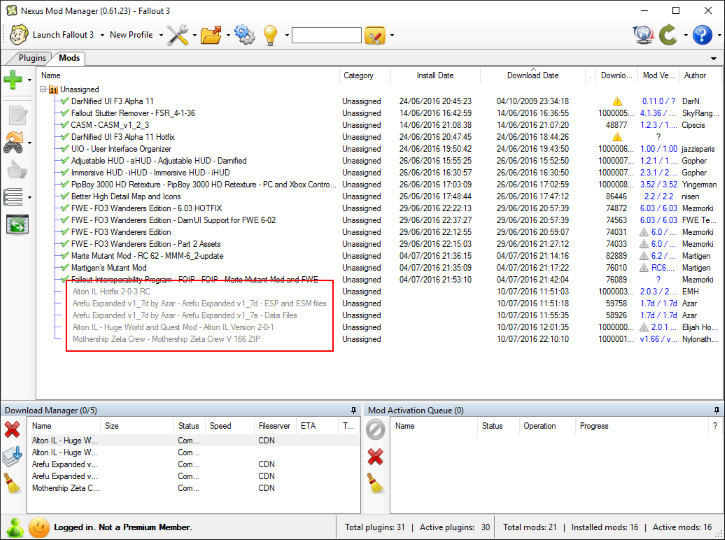
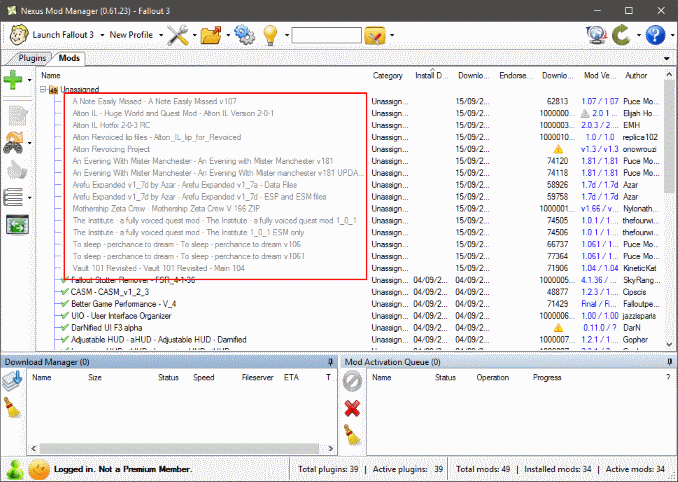
The chapter about new quests have plumped up a lot. From just 3 mods/quest, the count has increased to 8. Aside from that, there's nothing really remarkable about this update (and I am a little absentminded right now).
I have not tested the mods, so I hope the game won't crash when going on any of these quests.

diff --git a/Modding never changes.md b/Modding never changes.md
@@ -1161,27 +1161,65 @@ We are going to install [_Weapon Mod Kits_](http://www.nexusmods.com/fallout3/mo
 
 ### <a id="expandingYourWorld"></a>4.4. Expanding your world
 
-This section is about adding new content to the game, and it's the last block before changing the way the game looks. We are going to add a few new places, a new playable set (armor, range finder, trap detector and nightvision gear), and pulling out a feature the game actually has, but does not show by default.
+This section is about adding new content to the game, and it's the last block before changing the way the game looks. We are going to add a few new places and quests, a new playable set (armor, range finder, trap detector and nightvision gear), and pulling out a feature the game actually has, but does not show by default.
 
 
 #### <a id="hicSuntDracones"></a>4.4.1. _Hic sunt dracones_
 
 It's not that _Fallout 3 Game of the Year Edition_ lacks places to visit. On the contrary, you will be ruining your life trying to unfold the secrets of the Capital Wasteland, but, still, why not add some spice to the mix?
 
-We are going to add three mods that add new content to the game: [_Alton, IL_](http://www.nexusmods.com/fallout3/mods/16949/?), [_Arefu Expanded_](http://www.nexusmods.com/fallout3/mods/8976/?) and [_Mothership Zeta Crew_](http://www.nexusmods.com/fallout3/mods/8747/?). Let's start.
+We are going to install several mods that add new content to the game:
 
-1. Download _Alton IL Version 2-0-1_ and _Alton IL Hotfix 2-0-3_ with NMM.
-2. Download _Arefu Expanded v1_7a - Data Files_ and _Arefu Expanded v1\_7d - ESP and ESM files_ with NMM.
-3. Download _Mothership Zeta Crew V 166 ZIP_ with NMM.
-4. Check they are all downloaded and ready in NMM. Take into account that _Mothership Zeta Crew_ is **HUGE** (over 1 GB), so be patient and make the most of your time reading online documentation about creating a book using LaTeX, for example.
+* [_A Note Easily Missed_](http://www.nexusmods.com/fallout3/mods/4730/?)
+* [_Alton, IL_](http://www.nexusmods.com/fallout3/mods/16949/?)
+* [_An Evening With Mister Manchester_](http://www.nexusmods.com/fallout3/mods/5630/?)
+* [_Arefu Expanded_](http://www.nexusmods.com/fallout3/mods/8976/?)
+* [_Mothership Zeta Crew_](http://www.nexusmods.com/fallout3/mods/8747/?).
+* [_The Institute - a fully voiced quest mod_](http://www.nexusmods.com/fallout3/mods/14449/?)
+* [_To sleep - perchance to dream_](http://www.nexusmods.com/fallout3/mods/6921/?)
+* [_Vault 101 Revisited_](http://www.nexusmods.com/fallout3/mods/13308/?)
+
+Visit each mod's page to find out more about what you will find with the new quests and areas.
+
+Let's start.
+
+1. Download the following files for each mod, all with NMM, unless otherwise specified:
+	* _A Note Easily Missed v107_ for _A Note Easily Missed_.
+	* _Alton IL Version 2-0-1_ and _Alton IL Hotfix 2-0-3_ for _Alton, IL_.
+	* Manually download [_Alton Re-voiced update without lip files_](http://www.nexusmods.com/fallout3/download/1000007113) from [_Alton Revoicing Project_](http://www.nexusmods.com/fallout3/mods/20859/?).
+	* _Alton\_IL\_lip\_for\_Revoiced_ from [_Alton Revoiced lip files_](http://www.nexusmods.com/fallout3/mods/22041/?).
+	* _An Evening with Mister Manchester v181_ and _An Evening With Mister manchester v181 UPDATE_ for _An Evening with Mister Manchester_.
+	* _Arefu Expanded v1\_7a - Data Files_ and _Arefu Expanded v1\_7d - ESP and ESM files_ for _Arefu Expanded_.
+	* _Mothership Zeta Crew V 166 ZIP_ for _Mothership Zeta Crew_.
+	* _The Institute - a fully voiced quest mod 1\_0\_1_ and _The Institute 1\_0\_1 ESM only_ from _The Institute - a fully voiced quest mod_.
+	* _To sleep - perchance to dream v106_ and _To sleep - perchance to dream v1061_ for _To sleep - perchance to dream_.
+	* _Vault 101 Revisited - Main 104_ for _Vault 101 Revisited_.
+2. Manually add the file `Alton Re-voiced update without lip files-20859-v1-3.zip` to NMM (this is the only file not downloaded with NMM in this series).
+3. Check all the files are downloaded and ready in NMM. Take into account that _Mothership Zeta Crew_ is **HUGE** (over 1 GB), so be patient and make the most of your time reading online documentation about creating a book using Asciidoc, for example.
 ![NMM new content mods](Images/NMM%20new%20content%20mods.png)
-5. Activate the files in the following order, overwriting all files when necessary (the mods shouldn't overlap, except patches over original files):
+4. We are going to activate _Alton, IL_ files first, because there is a main file and several patches. Activate them in the following order, overwriting when asked to.
 	* _Alton IL - Huge World and Quest Mod - Alton IL Version 2-0-1_
 	* _Alton IL Hotfix 2-0-3 RC_
+	* _Alton Revoicing Project_
+	* _Alton Revoiced lip files - Alton\_IL\_lip\_for\_Revoiced_
+5. Activate the following files next, in this order, overwriting original files with patches/updates:
 	* _Arefu Expanded v1\_7d by Azar - Arefu Expanded v1\_7a - Data Files_
 	* _Arefu Expanded v1\_7d by Azar - Arefu Expanded v1\_7d - ESP and ESM files_
 	* _Mothership Zeta Crew - Mothership Zeta Crew V 166 ZIP_
-6. When all mods are installed, fire up LOOT to rearrange your load order. This should be the load order now:
+	* _A Note Easily Missed - A Note Easily Missed v107_
+	* _An Evening With Mister Manchester - An Evening with Mister Manchester v181_
+	* _An Evening With Mister Manchester - An Evening With Mister manchester v181 UPDATE_
+	* _The Institute - a fully voiced quest mod - The Institute - a fully voiced quest mod 1\_0\_1_
+	* _The Institute - a fully voiced quest mod - The Institute 1\_0\_1 ESM only_
+	* _To sleep - perchance to dream - To sleep - perchance to dream v106_
+	* _To sleep - perchance to dream - To sleep - perchance to dream v1061_
+	* _Vault 101 Revisited - Vault 101 Revisited - Main 104_
+6. When all them mods are installed, fire up LOOT to rearrange your load order. Ignore the load order for now, because there are several dirty files we have to clean first. These are the dirty files to clean with FO3Edit:
+	* `Vault 101 Revisited.esm`
+	* `HeirApparent.esp`
+	* `NotSoFast.esp`
+	* `IntoTheDeepWoods.esp`
+7. Fire up LOOT again an rearrange your load order, which will change due to the cleaning. This should be the deal:
 	* `Fallout3.esm`
 	* `Anchorage.esm`
 	* `ThePitt.esm`
@@ -1197,31 +1235,48 @@ We are going to add three mods that add new content to the game: [_Alton, IL_](h
 	* **`ArefuExpandedByAzar.esm`**
 	* **`Mothership Crew.esm`**
 	* `RH_IRONSIGHTS.esm`
+	* **`TheInstitute.esm`**
+	* **`Vault 101 Revisited.esm`**
 	* **`Alton, IL.esm`**
 	* `CRAFT.esm`
 	* `FO3 Wanderers Edition - Main File.esm`
 	* `FO3 Wanderers Edition - Alternate Travel.esp`
 	* `CASM.esp`
+	* `BetterGamePerformance.esp`
+	* `GNR Enhanced.esp`
 	* `DarNifiedUIF3.esp`
 	* **`AltonAddon.esp`**
 	* `FO3 Wanderers Edition - Main File.esp`
-	* `FO3 Wanderers Edition - DLC Anchorage.esp`
 	* `HZSmoothLight - FO3.esp`
-	* `FO3 Wanderers Edition - DLC The Pitt.esp`
-	* `Blackened RH + FWE + EVE.esp`
 	* `FO3 Wanderers Edition - DLC Broken Steel.esp`
 	* `FO3 Wanderers Edition - DLC Point Lookout.esp`
-	* `FO3 Wanderers Edition - DLC Mothership Zeta.esp`
+	* `Blackened FWE + MMM + EVE.esp`
+	* `RH_FWE_Bridge.esp`
+	* **`HeirApparent.esp`**
+	* **`NotSoFast.esp`**
 	* `WeaponModKits.esp`
+	* `RH_EVE_Bridge.esp`
+	* **`IntoTheDeepWoods.esp`**
+	* `Existence 2.0.esp`
+	* `FO3 Wanderers Edition - DLC Anchorage.esp`
+	* `FO3 Wanderers Edition - DLC The Pitt.esp`
+	* `FO3 Wanderers Edition - DLC Mothership Zeta.esp`
 	* `WeaponModKits - BrokenSteel.esp`
 	* `WeaponModKits - OperationAnchorage.esp`
-	* `WeaponModKits - Zeta.esp`
 	* `WeaponModKits - ThePitt.esp`
+	* `WeaponModKits - Zeta.esp`
 	* `WeaponModKits - PointLookout.esp`
+	* `RH_WMK_Bridge.esp`
 	* **`ArefuExpandedByAzar-Radio.esp`**
-7. Launch the game and wait a few moments to see two reminders about _Alton, IL_ and _Arefu Expanded_ (there's no mention about _Mothership Zeta Crew_, as the mod kick-in is embedded in-game).
-![Fallout 3 Arefu Expanded installed](Images/Fallout%203%20Arefu%20Expanded%20installed.png)
-![Fallout 3 Alton IL installed](Images/Fallout%203%20Alton%20IL%20installed.png)
+	* `Conelrad 640-1240.esp`
+	* **`FasterMorePowerfulMines.esp`**
+8. Launch the game and wait a few moments to see several dialogs to kick-in the missions (except _Mothership Zeta Crew_, which launches elsewhere).
+![Fallout 3 new quests dialog 1](Images/Fallout%203%20new%20quests%20dialog%201.png)
+![Fallout 3 new quests dialog 2](Images/Fallout%203%20new%20quests%20dialog%202.png)
+![Fallout 3 new quests dialog 3](Images/Fallout%203%20new%20quests%20dialog%203.png)
+![Fallout 3 new quests dialog 4](Images/Fallout%203%20new%20quests%20dialog%204.png)
+9. You can check the quests pulling up your Pip-Boy and navigating to the _Data_ section, _Notes_ option. The following notes should be there for you:
+![Fallout 3 new quests notes](Images/Fallout%203%20new%20quests%20notes.png)
 
 
 #### <a id="gearFallenBrother"></a>4.4.2. Gear for a fallen brother
@@ -1968,7 +2023,7 @@ Remember these golden rules regarding to merged patches:
 
 ## <a id="resources"></a>7. Resources
 
-This is a comprehensive list of the resources used throughtout this guide.
+This is a comprehensive list of the resources used throughout this guide.
 
 
 
@@ -1998,6 +2053,23 @@ This is the list of mods used throughout this guide, in ascending alphabetical o
 
 |Mod|URL|
 |---|---|
+|_A Note Easily Missed_|http://www.nexusmods.com/fallout3/mods/4730/|
+|_Adjustable HUD_|http://www.nexusmods.com/fallout3/mods/15886/|
+|_Advanced Recon Range Finder_|http://www.nexusmods.com/fallout3/mods/15744/|
+|_Advanced Recon Stealth Armor_|http://www.nexusmods.com/fallout3/mods/2654/|
+|_Advanced Recon Thermal Nightvision Patcher_|http://www.nexusmods.com/fallout3/mods/20806/|
+|_Advanced Recon Thermal Nightvision_|http://www.nexusmods.com/fallout3/mods/15653/|
+|_Advanced Recon Trap Detection_|http://www.nexusmods.com/fallout3/mods/15641/|
+|_Alton IL_|http://www.nexusmods.com/fallout3/mods/16949/|
+|_Alton Revoiced lip files_|http://www.nexusmods.com/fallout3/mods/22041/|
+|_Alton Revoicing Project_|http://www.nexusmods.com/fallout3/mods/20859/|
+|_Ambient Wasteland 2_|http://www.nexusmods.com/fallout3/mods/12602/|
+|_An Evening With Mister Manchester_|http://www.nexusmods.com/fallout3/mods/5630/|
+|_Arefu Expanded_|http://www.nexusmods.com/fallout3/mods/8976/|
+|_Beards of Fallout_|http://www.nexusmods.com/fallout3/mods/18622/|
+|_Better Booze_|http://www.nexusmods.com/fallout3/mods/626/|
+|_Better Game Performance_|http://www.nexusmods.com/fallout3/mods/13520/|
+|_Better High Detail Map and Icons_|http://www.nexusmods.com/fallout3/mods/16898/|
 |_Better HiRes Skill Books_|http://www.nexusmods.com/fallout3/mods/3876/|
 |_Chems and Meds Re-Texture Pack_|http://www.nexusmods.com/fallout3/mods/15960/|
 |_CINEMATECH_|http://www.nexusmods.com/fallout3/mods/15745/|
@@ -2010,10 +2082,10 @@ This is the list of mods used throughout this guide, in ascending alphabetical o
 |_Dynavision_|http://www.nexusmods.com/fallout3/mods/17876/|
 |_Earth from Space texture for Mothership Zeta_|http://www.nexusmods.com/fallout3/mods/19294/|
 |_Energy Visuals Enhanced_|http://www.nexusmods.com/fallout3/mods/8340/|
-|_Enhanced Blood Textures v2\_22b_|http://www.nexusmods.com/fallout3/mods/101/|
+|_Enhanced Blood Textures v2_22b_|http://www.nexusmods.com/fallout3/mods/101/|
 |_Enhanced Night Sky_|http://www.nexusmods.com/fallout3/mods/442/|
 |_eXcalibr - ammo eXpansion pack_|http://www.nexusmods.com/fallout3/mods/11684/|
-|_Existence 2\_0 - Robot Radio_|http://www.nexusmods.com/fallout3/mods/5612/|
+|_Existence 2_0 - Robot Radio_|http://www.nexusmods.com/fallout3/mods/5612/|
 |_Expanded Megaton House V3_|http://www.nexusmods.com/fallout3/mods/2136/|
 |_Fake Fullscreen Mode Windowed - Alt Tab Fix_|http://www.nexusmods.com/fallout3/mods/16001/|
 |_Fallout 3 - Enhanced Camera_|http://www.nexusmods.com/fallout3/mods/20183/|
@@ -2034,7 +2106,7 @@ This is the list of mods used throughout this guide, in ascending alphabetical o
 |_Immersive HUD_|http://www.nexusmods.com/fallout3/mods/15790/|
 |_Improved Glass Bullet Impact_|http://www.nexusmods.com/fallout3/mods/13120/|
 |_Improved LOD Noise Texture_|http://www.nexusmods.com/fallout3/mods/17743/|
-|_Improved Sound FX v1\_3_|http://www.nexusmods.com/fallout3/mods/627/|
+|_Improved Sound FX v1.3_|http://www.nexusmods.com/fallout3/mods/627/|
 |_krzymar HI-RES Moon_|http://www.nexusmods.com/fallout3/mods/538/|
 |_Large Address Aware Enabler for Fallout 3_|http://www.nexusmods.com/fallout3/mods/6510/|
 |_Lost in Light_|http://www.nexusmods.com/fallout3/mods/19163/|
@@ -2062,7 +2134,7 @@ This is the list of mods used throughout this guide, in ascending alphabetical o
 |_To sleep - perchance to dream_|http://www.nexusmods.com/fallout3/mods/6921/|
 |_UHQ Terrain Overhaul_|http://www.nexusmods.com/fallout3/mods/19799/|
 |_Unofficial Fallout 3 Patch_|http://www.nexusmods.com/fallout3/mods/19122/|
-|_User Interface Organizer_|http://www.nexusmods.com/fallout3/mods/20867|
+|_User Interface Organizer_|http://www.nexusmods.com/fallout3/mods/20867/|
 |_UWWUT - Unique Weapons With Unique Textures_|http://www.nexusmods.com/fallout3/mods/6309/|
 |_Vault 101 Revisited_|http://www.nexusmods.com/fallout3/mods/13308/|
 |_Weapon Mod Kits_|http://www.nexusmods.com/fallout3/mods/3388/|

diff --git a/README.md b/README.md
@@ -6,6 +6,12 @@ Take a look at the file `Modding never changes.md`. That is the main guide file,
 
 ### Changelog
 
+**(v0.28) [15/09/2016] Rewrite complete up to 4.4.1.**
+
+The chapter about new quests have plumped up a lot. From just 3 mods/quest, the count has increased to 8. Aside from that, there's nothing really remarkable about this update (and I am a little absentminded right now).
+
+I have not tested the mods, so I hope the game won't crash when going on any of these quests.
+
 **(v0.27) [11/09/2016] Rewrite complete up to 4.4.4.**
 
 The chapter about weapons (_EVE_, _RH\_IronSights_ and _WMK_) has changed dramatically. Using Xuul's video as a source of enlightenment, I have a less cluttered procedure, although a bit more complex. _RH\_IronSights_ and _WMK_ install procedures have been completely rewritten, and I have installed several bridges I left out the previous iteration.
